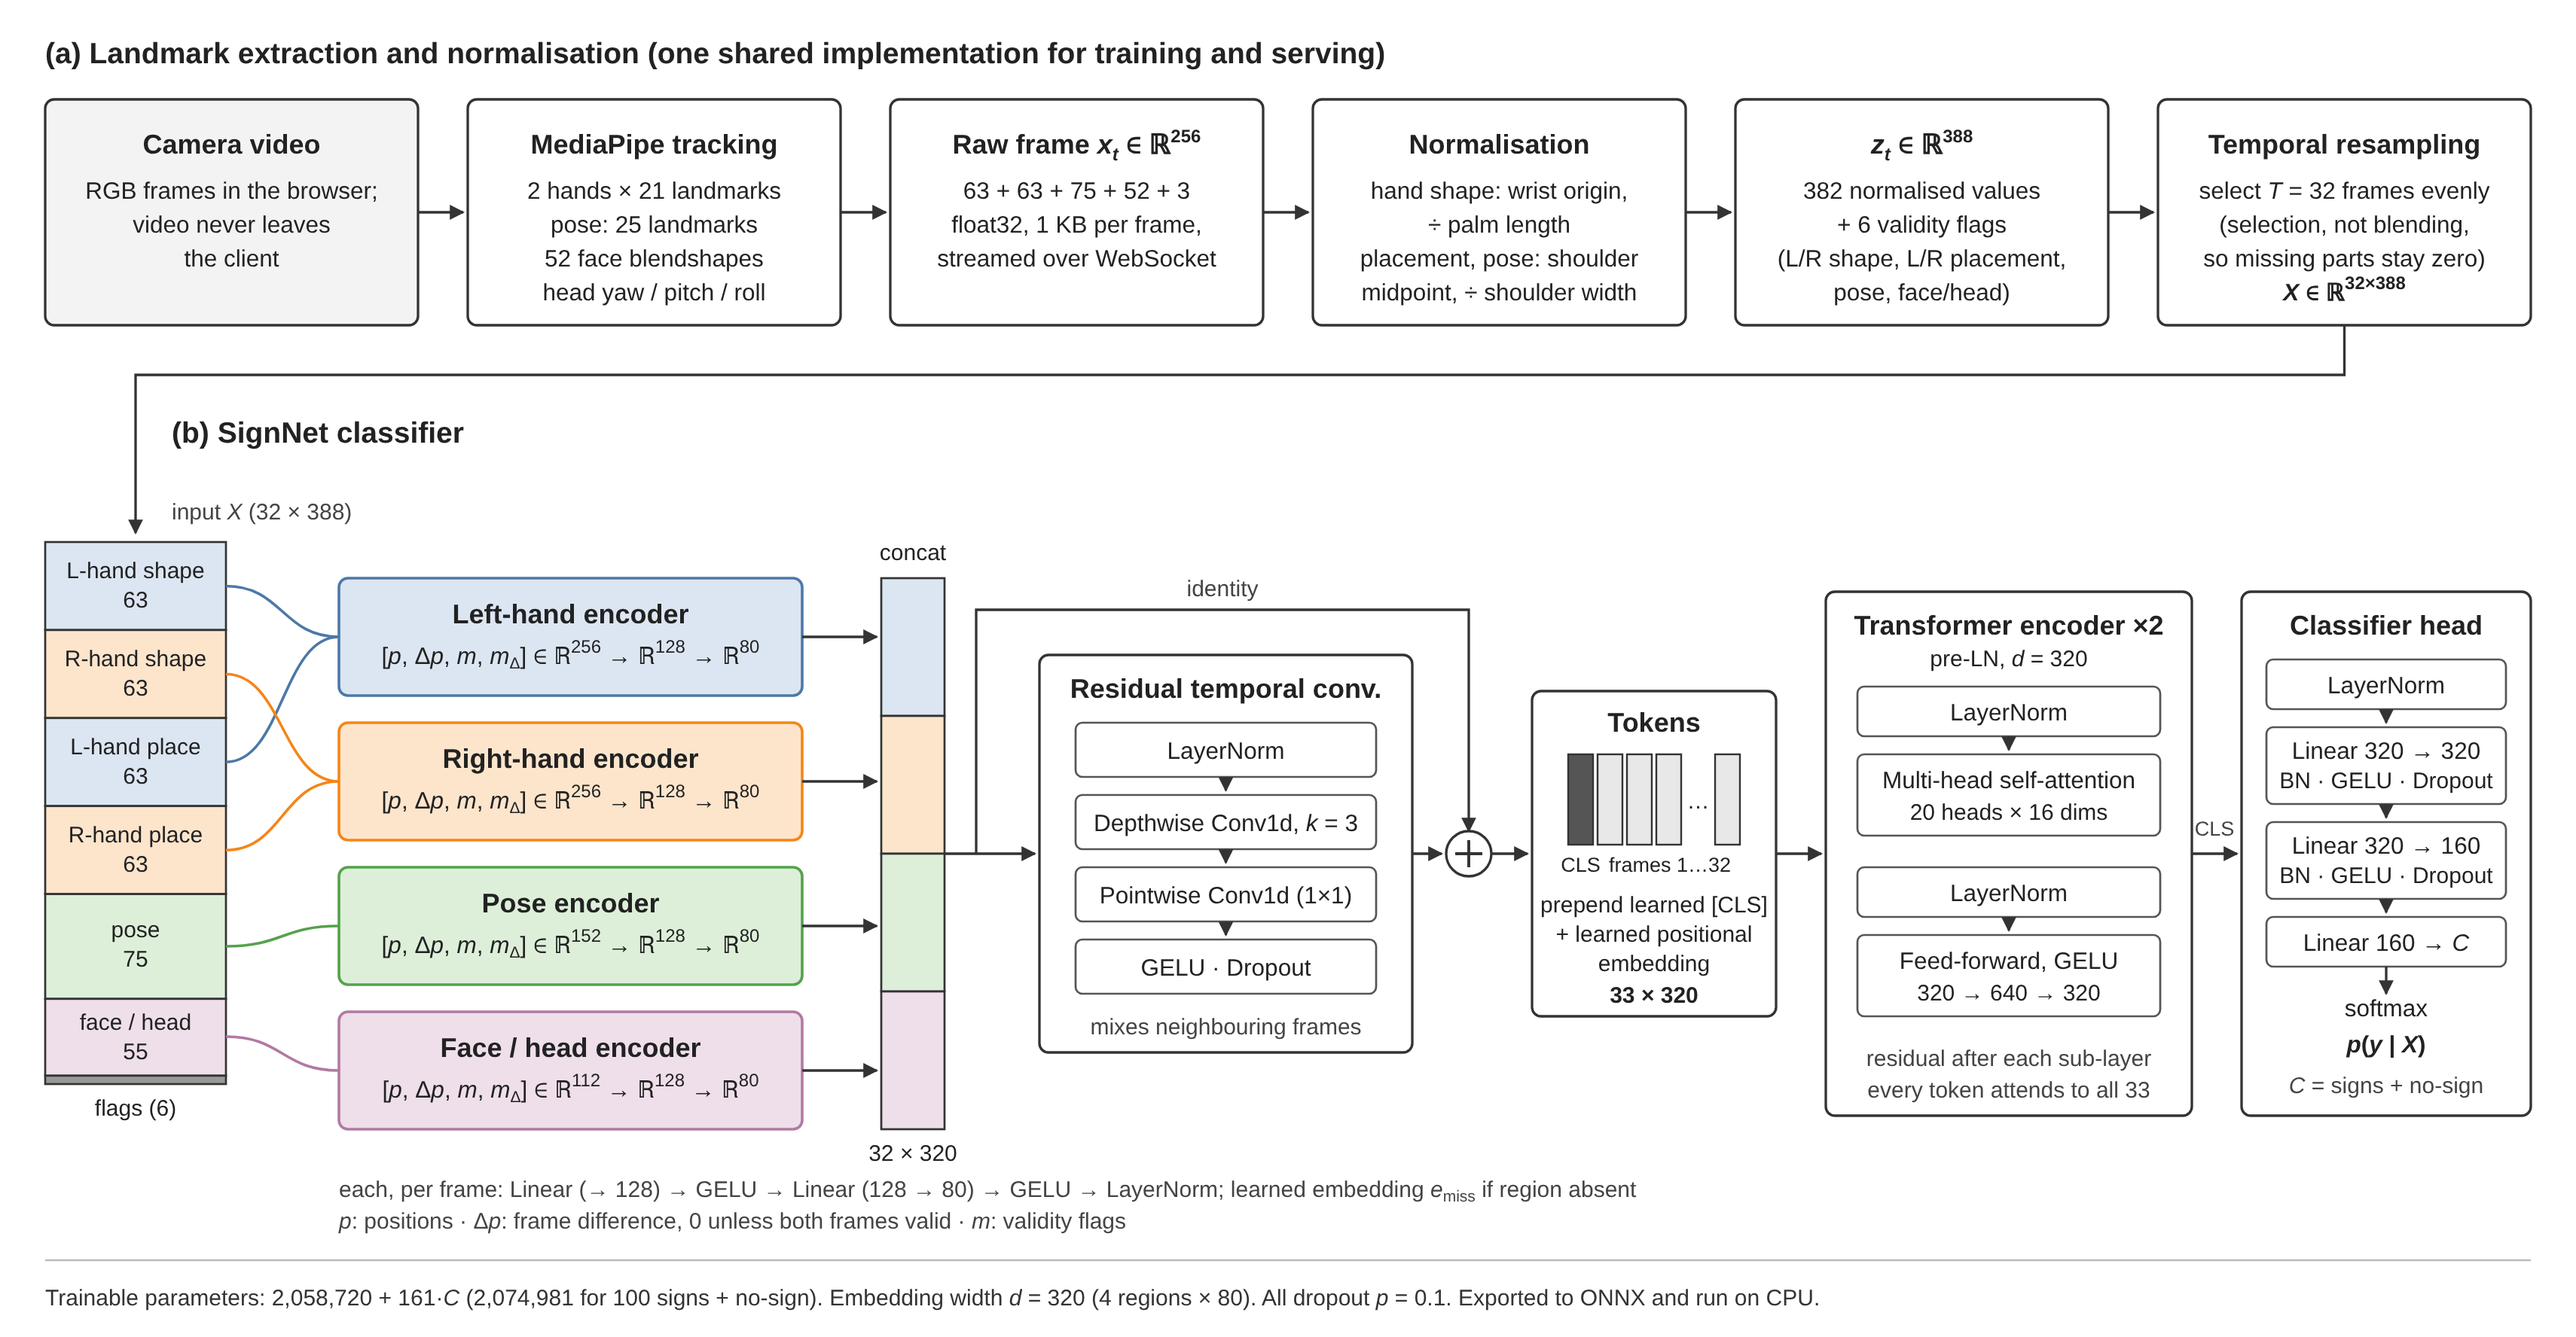
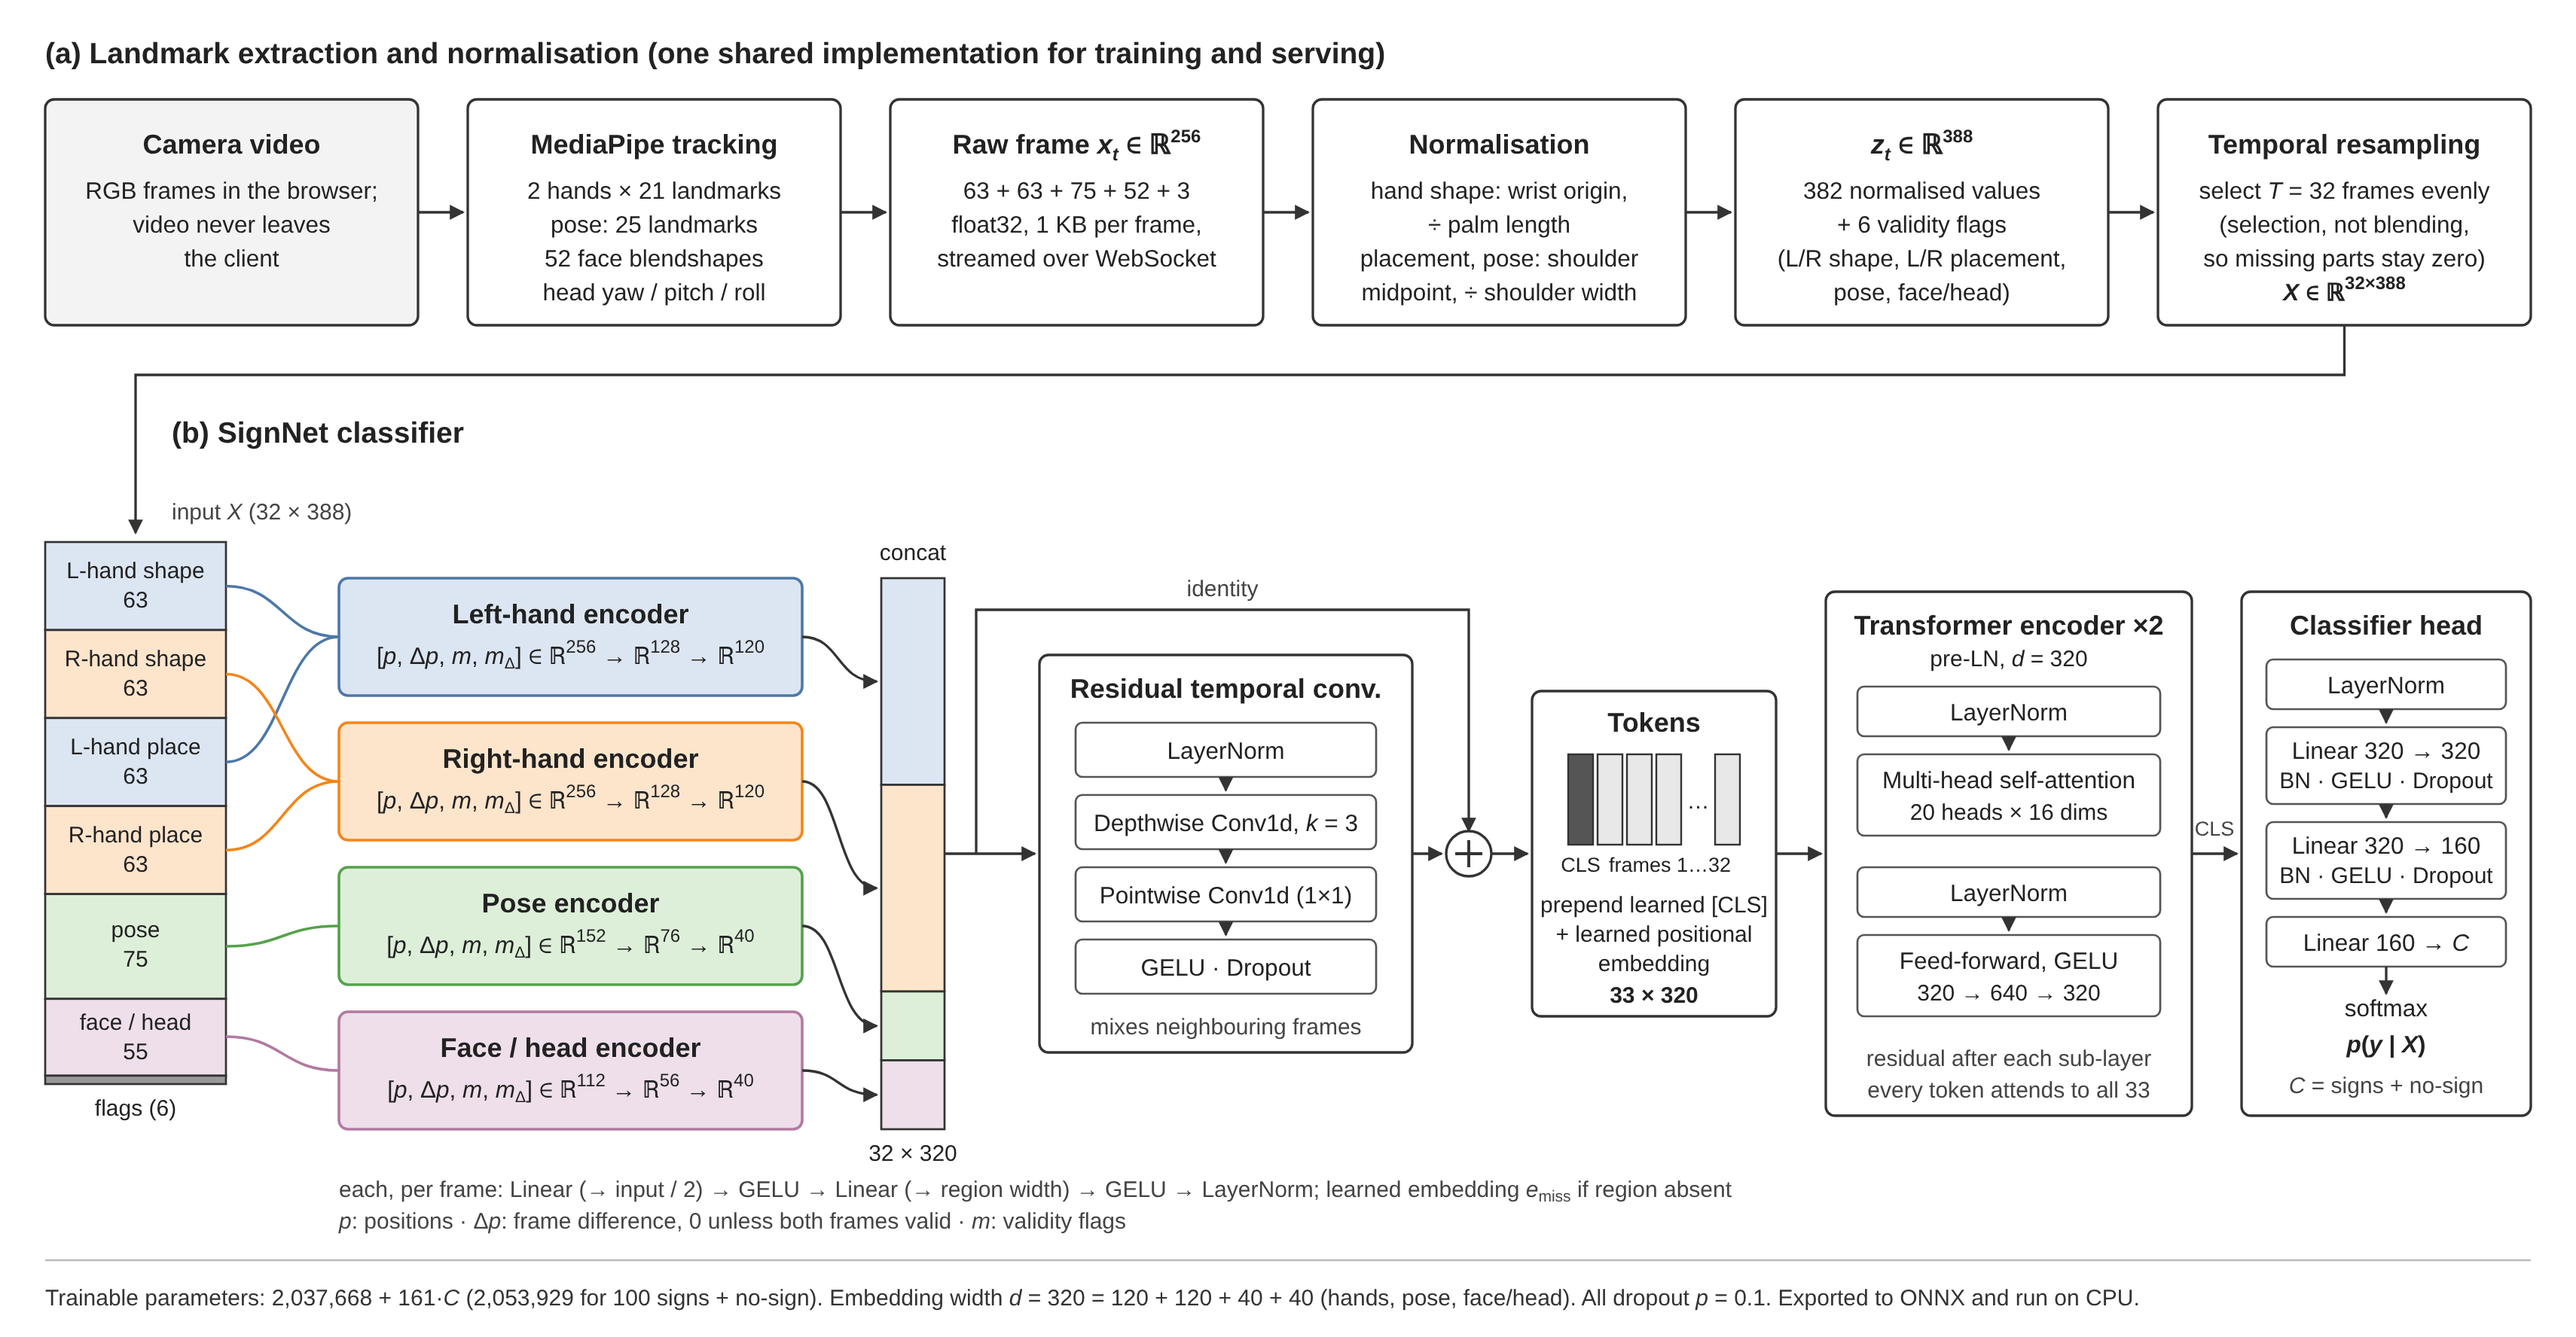
Give the hands 120 dimensions each and pose and face 40
Region widths are now shares of the embedding (3:3:1:1, so 120, 120, 40,
40 at width 320), since hands carry most of a sign. Each encoder's hidden
layer is half its input: hands 256 -> 128 -> 120, pose 152 -> 76 -> 40,
face/head 112 -> 56 -> 40. The model has 2,037,668 + 161 x C trainable
parameters.

Claude-Session: https://claude.ai/code/session_01KxdwFEVTv6YfbwgB98egna

diff --git a/ml/train.py b/ml/train.py
@@ -36,7 +36,10 @@ SIGN_FRACTION = 0.6  # a straddling window counts as the sign only above this mu
 MIN_CLIPS_FOR_THRESHOLD = 30
 MAX_FALSE_ACCEPT = 0.05
 MIN_PASS_SCORE = 0.5
-REGION_HIDDEN = 128  # hidden width of each region encoder
+# Each region's share of the embedding, in REGION_PARTS order: left hand,
+# right hand, pose, face/head. Hands carry most of a sign, so they get the
+# room to keep fine handshape detail (120, 120, 40, 40 at width 320).
+REGION_SHARES = (3, 3, 1, 1)
 
 
 def pick_device() -> torch.device:
@@ -61,12 +64,13 @@ class RegionEncoder(nn.Module):
         super().__init__()
         self.parts = parts
         coordinates = sum(PART_WIDTHS[i] for i in parts)
-        # Two layers through a 128-wide hidden layer: the first mixes positions,
-        # motion and flags; the second combines those features before the
-        # region is joined to the others.
+        inputs = 2 * coordinates + 2 * len(parts)
+        # Two layers: the first mixes positions, motion and flags into half the
+        # input size; the second brings that to the region's width
+        # (e.g. 256 -> 128 -> 120 for a hand).
         self.encoder = nn.Sequential(
-            nn.Linear(2 * coordinates + 2 * len(parts), REGION_HIDDEN), nn.GELU(),
-            nn.Linear(REGION_HIDDEN, width), nn.GELU(), nn.LayerNorm(width),
+            nn.Linear(inputs, inputs // 2), nn.GELU(),
+            nn.Linear(inputs // 2, width), nn.GELU(), nn.LayerNorm(width),
         )
         self.missing = nn.Parameter(torch.empty(width))
         nn.init.normal_(self.missing, std=0.02)
@@ -101,9 +105,13 @@ class SignNet(nn.Module):
 
     def __init__(self, classes: int, width: int = 320):
         super().__init__()
-        if width % 20 or width % 4:
-            raise ValueError("embedding width must be divisible by 20 heads and four regions")
-        self.regions = nn.ModuleList(RegionEncoder(parts, width // 4) for parts in REGION_PARTS)
+        if width % 20 or width % sum(REGION_SHARES):
+            raise ValueError(f"embedding width must be divisible by 20 heads and by {sum(REGION_SHARES)} "
+                             "(the regions' shares)")
+        self.regions = nn.ModuleList(
+            RegionEncoder(parts, width * share // sum(REGION_SHARES))
+            for parts, share in zip(REGION_PARTS, REGION_SHARES)
+        )
         self.temporal_norm = nn.LayerNorm(width)
         self.temporal = nn.Sequential(
             nn.Conv1d(width, width, kernel_size=3, padding=1, groups=width),

diff --git a/ml/test_train.py b/ml/test_train.py
@@ -111,17 +111,19 @@ def test_hand_encoder_groups_shape_and_placement_without_the_other_hand():
     assert (flags == 1).all()
 
 
-def test_region_encoders_go_through_a_128_wide_hidden_layer():
-    for parts, inputs in (((0, 2), 256), ((1, 3), 256), ((4,), 152), ((5,), 112)):
-        linears = [m for m in RegionEncoder(parts, 80).encoder if isinstance(m, torch.nn.Linear)]
-        assert [(m.in_features, m.out_features) for m in linears] == [(inputs, 128), (128, 80)]
+def test_region_encoders_halve_their_input_then_give_hands_the_most_room():
+    expected = [(256, 128, 120), (256, 128, 120), (152, 76, 40), (112, 56, 40)]
+    for region, (inputs, hidden, width) in zip(SignNet(classes=4).regions, expected):
+        linears = [m for m in region.encoder if isinstance(m, torch.nn.Linear)]
+        assert [(m.in_features, m.out_features) for m in linears] == [(inputs, hidden), (hidden, width)]
+        assert region.missing.shape == (width,)
 
 
 def test_parameter_count_matches_the_readme():
     for classes in (2, 101):
         model = SignNet(classes)
         trainable = sum(p.numel() for p in model.parameters() if p.requires_grad)
-        assert trainable == 2_058_720 + 161 * classes
+        assert trainable == 2_037_668 + 161 * classes
 
 
 def test_missing_regions_are_finite_and_ignore_invalid_coordinates():

diff --git a/docs/figures/figures.tex b/docs/figures/figures.tex
@@ -7,8 +7,8 @@
   hand placement and pose relative to the shoulder midpoint and shoulder width), augmented
   with six validity flags, and resampled to $T{=}32$ frames, giving $X \in \mathbb{R}^{32\times388}$.
   (b) SignNet encodes four anatomical regions separately from positions, masked frame
-  differences and validity flags (80 dimensions each, with a learned embedding for absent
-  regions), mixes neighbouring frames with a residual depthwise-separable temporal
+  differences and validity flags (120 dimensions per hand and 40 each for pose and face/head,
+  via a hidden layer half the input size, with a learned embedding for absent regions), mixes neighbouring frames with a residual depthwise-separable temporal
   convolution, and classifies a learned [CLS] token after two pre-LN Transformer encoder
   layers. The output covers all signs plus a no-sign class.}
   \label{fig:architecture}

diff --git a/README.md b/README.md
@@ -83,11 +83,11 @@ This writes `server/models/signs.onnx` (one file, with the labels and pass score
 
 The model takes 32 frames of 388 features: the original 382 normalised values plus six validity flags for left/right hand shape, left/right hand placement, pose and face/head. These flags are inferred from existing recordings; the browser's 256-value frame format is unchanged. Face presence is inferred from nonzero face/head values, so a completely neutral face cannot be distinguished from missing face tracking.
 
-Separate left-hand, right-hand, pose and face/head encoders each produce 80 dimensions from positions, frame differences and validity flags, using two layers through a 128-wide hidden layer (`Linear (→ 128) → GELU → Linear (128 → 80) → GELU → LayerNorm`), so each hand goes 256 → 128 → 80, applied to each frame on its own. Differences are zero for the first frame and whenever either adjacent observation is invalid, preventing tracking loss/recovery from appearing as motion. They describe motion over resampled clip time, not physical velocity. Entirely missing regions use learned embeddings. The four outputs are concatenated into 320 dimensions and processed by a residual temporal convolution (depthwise kernel 3, then a pointwise projection).
+Separate left-hand, right-hand, pose and face/head encoders turn positions, frame differences and validity flags into 120, 120, 40 and 40 dimensions. Hands carry most of a sign, so they get the most room. Each encoder has two layers, applied to each frame on its own: the first halves the input size, the second brings it to the region's width (`Linear → GELU → Linear → GELU → LayerNorm`). Hands go 256 → 128 → 120, pose 152 → 76 → 40 and face/head 112 → 56 → 40. Differences are zero for the first frame and whenever either adjacent observation is invalid, preventing tracking loss/recovery from appearing as motion. They describe motion over resampled clip time, not physical velocity. Entirely missing regions use learned embeddings. The four outputs are concatenated into 320 dimensions and processed by a residual temporal convolution (depthwise kernel 3, then a pointwise projection).
 
 The model then prepends a learned classification token and adds learned positional embeddings. Two Transformer encoder layers, each with 20 attention heads (16 dimensions per head), let every token attend to the entire clip. The classification token's output passes through layer normalisation and a three-layer classifier (`320 → 320 → 160 → labels`, including the no-sign class). Each hidden classifier layer uses batch normalisation, GELU and dropout. All dropout probabilities are 0.1. Training requires at least two clips after the signer split; inference accepts a single clip using the saved batch-normalisation statistics.
 
-There are `2,058,720 + 161 × C` trainable parameters, where `C` includes the no-sign class (2,074,981 for 100 signs plus no-sign). Existing recordings remain usable, but models exported for the previous 382-feature input must be retrained and re-exported; the server rejects them at load time. Checkpoints from `pretrain.py` made before the region encoders had two layers no longer fit; run `pretrain.py` again.
+There are `2,037,668 + 161 × C` trainable parameters, where `C` includes the no-sign class (2,053,929 for 100 signs plus no-sign). Existing recordings remain usable, but models exported for the previous 382-feature input must be retrained and re-exported; the server rejects them at load time. Checkpoints from `pretrain.py` made before the region encoders had two layers and uneven widths no longer fit; run `pretrain.py` again.
 
 Vector versions of both figures (PDF and SVG), with LaTeX captions, are in [`docs/figures/`](docs/figures/).
 
